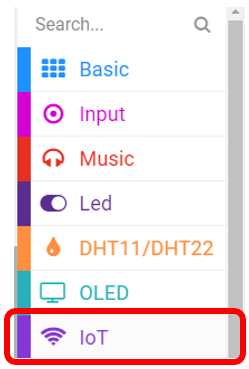
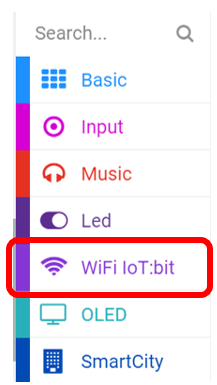
update extension package img

diff --git a/docs/_build/html/smartcity/IOTbit.html b/docs/_build/html/smartcity/IOTbit.html
@@ -346,7 +346,7 @@
 <li><p>Search <a href="https://github.com/SMARTHON/pxt-iot-bit"> https://github.com/SMARTHON/pxt-iot-bit</a> and click “WiFi-IoT-bit”
 <img alt="pic" src="../_images/ext_02.png" />
  </p></li>
-<li><p>“IoT” package has been added successfully.
+<li><p>“WiFi IoT:bit” package has been added successfully.
 <img alt="pic" src="../_images/ext_03.png" /></p></li>
 </ol>
 <!--

diff --git a/docs/smartcity/IOTbit.md b/docs/smartcity/IOTbit.md
@@ -50,7 +50,7 @@ To Program Smarthon modules with micro:bit, you need to add the Smarthon IoT pac
 2. Search <a href="https://github.com/SMARTHON/pxt-iot-bit"> https://github.com/SMARTHON/pxt-iot-bit</a> and click “WiFi-IoT-bit”
 ![pic](images/ext_02.png)
 &nbsp;
-3. “IoT” package has been added successfully.
+3. “WiFi IoT:bit” package has been added successfully.
 ![pic](images/ext_03.png)
 
 <!--
